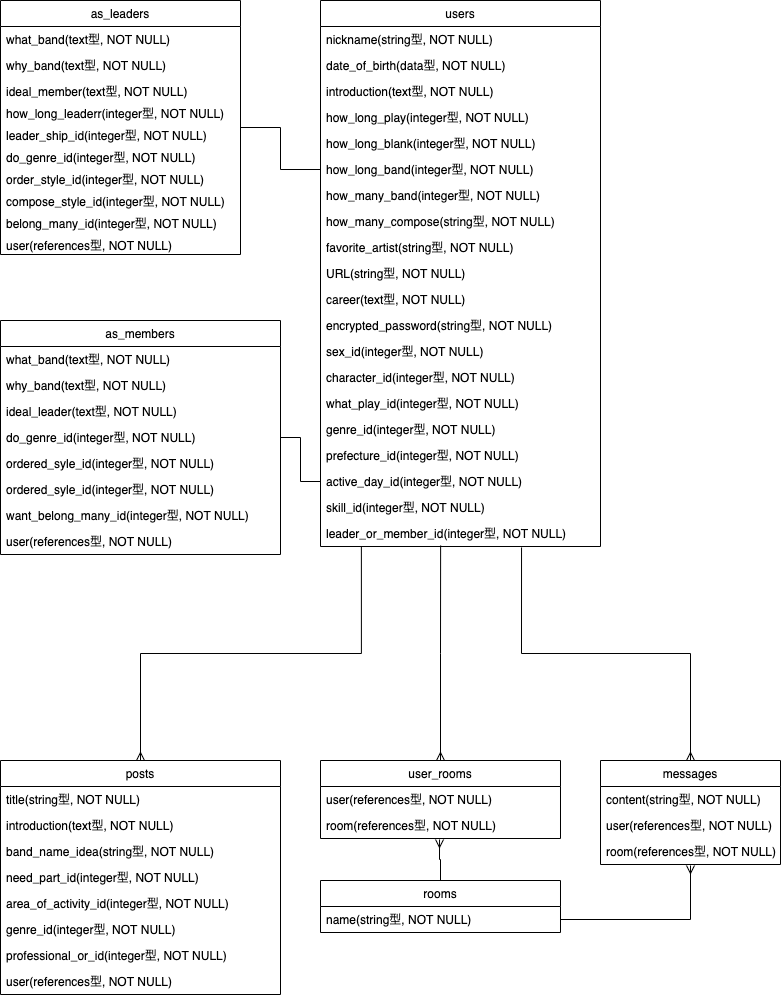
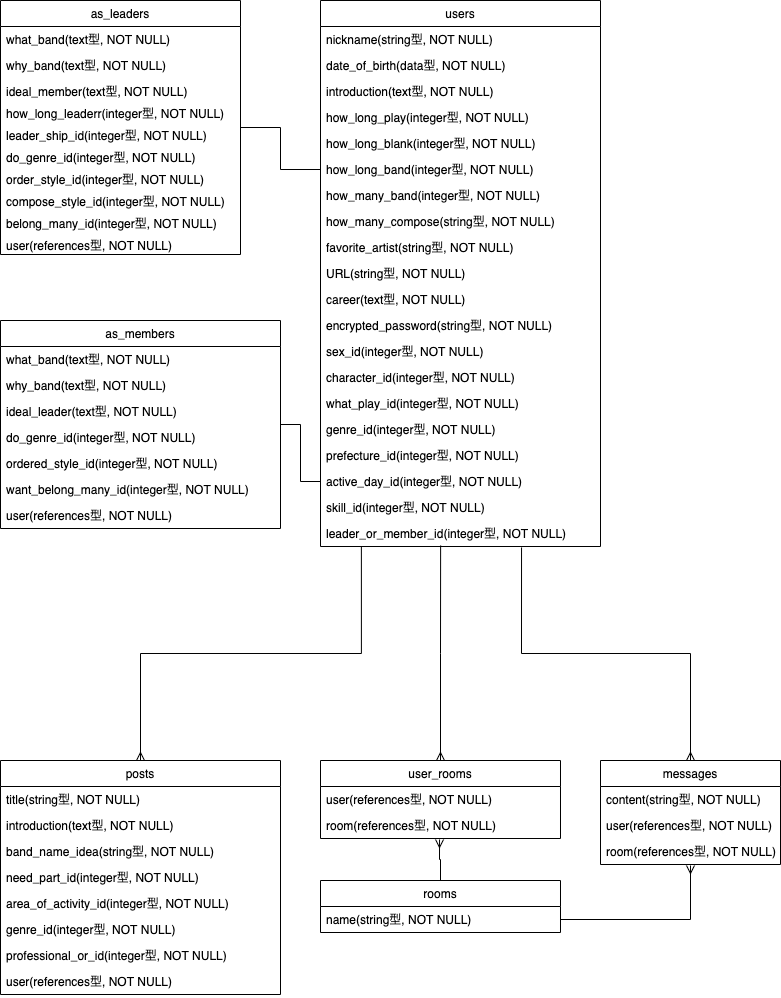
条件分岐でのメンバーページ実装

Changed region(s): [[0.0, 0.4349, 0.3073, 0.5591]]

diff --git a/app/controllers/users/registrations_controller.rb b/app/controllers/users/registrations_controller.rb
@@ -15,8 +15,13 @@ class Users::RegistrationsController < Devise::RegistrationsController
       end
       session["devise.regist_data"] = {user: @user.attributes}
       session["devise.regist_data"][:user]["password"] = params[:user][:password]
-      @as_leader = @user.build_as_leader
-      render :new_as_leader
+      if session["devise.regist_data"][:user]["leader_or_member_id"]==2
+        @as_leader = @user.build_as_leader
+        render :new_as_leader
+      else
+        @as_member = @user.build_as_member
+        render :new_as_member
+      end
     end
 
     def create_as_leader
@@ -31,11 +36,25 @@ class Users::RegistrationsController < Devise::RegistrationsController
         sign_in(:user, @user)
       end
 
+      def create_as_member
+        @user = User.new(session["devise.regist_data"]["user"])
+        @as_member = AsMember.new(as_member_params)
+          unless @as_member.valid?
+            render :new_as_member and return
+          end
+          @user.build_as_member(@as_member.attributes)
+          @user.save
+          session["devise.regist_data"]["user"].clear
+          sign_in(:user, @user)
+        end
+
       private
       def as_leader_params
         params.require(:as_leader).permit(:what_band, :why_band, :ideal_member, :how_long_leader, :leader_ship_id, :do_genre_id, :order_style_id, :compose_style_id, :belong_many_id)
       end
-      
+      def as_member_params
+        params.require(:as_member).permit(:what_band, :why_band, :ideal_leader, :do_genre_id, :ordered_style_id, :want_belong_many_id)
+      end
 
   # GET /resource/sign_up
   # def new

diff --git a/db/schema.rb b/db/schema.rb
@@ -10,7 +10,7 @@
 #
 # It's strongly recommended that you check this file into your version control system.
 
-ActiveRecord::Schema.define(version: 2021_09_13_093417) do
+ActiveRecord::Schema.define(version: 2021_09_14_082011) do
 
   create_table "as_leaders", options: "ENGINE=InnoDB DEFAULT CHARSET=utf8", force: :cascade do |t|
     t.text "what_band", null: false
@@ -26,6 +26,19 @@ ActiveRecord::Schema.define(version: 2021_09_13_093417) do
     t.datetime "created_at", precision: 6, null: false
     t.datetime "updated_at", precision: 6, null: false
     t.index ["user_id"], name: "index_as_leaders_on_user_id"
+  end
+
+  create_table "as_members", options: "ENGINE=InnoDB DEFAULT CHARSET=utf8", force: :cascade do |t|
+    t.text "what_band", null: false
+    t.text "why_band", null: false
+    t.text "ideal_leader", null: false
+    t.integer "do_genre_id", null: false
+    t.integer "ordered_style_id", null: false
+    t.integer "want_belong_many_id", null: false
+    t.bigint "user_id", null: false
+    t.datetime "created_at", precision: 6, null: false
+    t.datetime "updated_at", precision: 6, null: false
+    t.index ["user_id"], name: "index_as_members_on_user_id"
   end
 
   create_table "users", options: "ENGINE=InnoDB DEFAULT CHARSET=utf8", force: :cascade do |t|

diff --git a/db/migrate/20210914082011_create_as_members.rb b/db/migrate/20210914082011_create_as_members.rb
@@ -1,0 +1,15 @@
+class CreateAsMembers < ActiveRecord::Migration[6.0]
+  def change
+    create_table :as_members do |t|
+      t.text  :what_band,              null: false
+      t.text  :why_band,               null: false
+      t.text  :ideal_leader,           null: false
+      t.integer :do_genre_id,          null: false
+      t.integer :ordered_style_id,     null: false
+      t.integer :want_belong_many_id,  null: false
+      t.references :user,              null: false
+
+      t.timestamps
+    end
+  end
+end

diff --git a/app/models/ordered_style.rb b/app/models/ordered_style.rb
@@ -1,0 +1,14 @@
+class  OrderedStyle < ActiveHash::Base
+  self.data = [
+    { id: 1, name: '--' },
+    { id: 2, name: 'リーダーに指示を出してもらう' },
+    { id: 3, name: '特定のメンバーに指示を出してもらう' },
+    { id: 4, name: 'メンバー間で意見を出し合う' },
+    { id: 5, name: '自由に演奏する' },
+    { id: 6, name: 'ケースバイケース' },
+    { id: 7, name: '該当なし' }
+  ]
+
+  include ActiveHash::Associations
+  has_many :as_members
+end

diff --git a/app/models/as_member.rb b/app/models/as_member.rb
@@ -1,0 +1,12 @@
+class AsMember < ApplicationRecord
+  extend ActiveHash::Associations::ActiveRecordExtensions
+  belongs_to :user, optional: true
+  belongs_to :do_genre, :ordered_style, :want_belong_many
+
+  with_options presence: true do
+    validates :what_band, :why_band, :ideal_leader
+  end
+  with_options numericality: { other_than: 1 , message: "を選んでください"} do
+    validates :do_genre_id, :ordered_style_id, :want_belong_many_id
+  end
+end

diff --git a/app/models/want_belong_many.rb b/app/models/want_belong_many.rb
@@ -1,0 +1,13 @@
+class  WantBelongMany < ActiveHash::Base
+  self.data = [
+    { id: 1, name: '--' },
+    { id: 2, name: '掛け持ちしたい' },
+    { id: 3, name: 'サポートでの掛け持ちのみしたい' },
+    { id: 4, name: '掛け持ちはしない' },
+    { id: 5, name: 'ケースバイケース' }
+  ]
+
+  include ActiveHash::Associations
+  has_many :as_leaders
+  has_many :as_members
+end

diff --git a/config/routes.rb b/config/routes.rb
@@ -5,6 +5,8 @@ Rails.application.routes.draw do
   devise_scope :user do
     get 'as_leaders', to: 'users/registrations#new_as_leader'
     post 'as_leaders', to: 'users/registrations#create_as_leader'
+    get 'as_members', to: 'users/registrations#new_as_member'
+    post 'as_members', to: 'users/registrations#create_as_member'
   end
   root to: 'posts#index'
   resources :posts, only: [:index]

diff --git a/app/models/as_leader.rb b/app/models/as_leader.rb
@@ -1,5 +1,7 @@
 class AsLeader < ApplicationRecord
+  extend ActiveHash::Associations::ActiveRecordExtensions
   belongs_to :user, optional: true
+  belongs_to :leader_ship, :do_genre, :order_style, :compose_style, :belong_many
 
   with_options presence: true do
     validates :what_band, :why_band, :ideal_member

diff --git a/app/models/user.rb b/app/models/user.rb
@@ -7,6 +7,7 @@ class User < ApplicationRecord
   
   belongs_to :active_day, :character, :genre, :leader_or_member, :prefecture, :sex, :skill, :what_play
   has_one :as_leader
+  has_one :as_member
 
   with_options presence:true do
     validates :nickname, :date_of_birth, :introduction

diff --git a/spec/models/as_member_spec.rb b/spec/models/as_member_spec.rb
@@ -1,0 +1,5 @@
+require 'rails_helper'
+
+RSpec.describe AsMember, type: :model do
+  pending "add some examples to (or delete) #{__FILE__}"
+end

diff --git a/app/models/do_genre.rb b/app/models/do_genre.rb
@@ -17,4 +17,5 @@ class  DoGenre < ActiveHash::Base
 
   include ActiveHash::Associations
   has_many :as_leaders
+  has_many :as_members
 end

diff --git a/spec/factories/as_members.rb b/spec/factories/as_members.rb
@@ -1,0 +1,5 @@
+FactoryBot.define do
+  factory :as_member do
+    
+  end
+end
